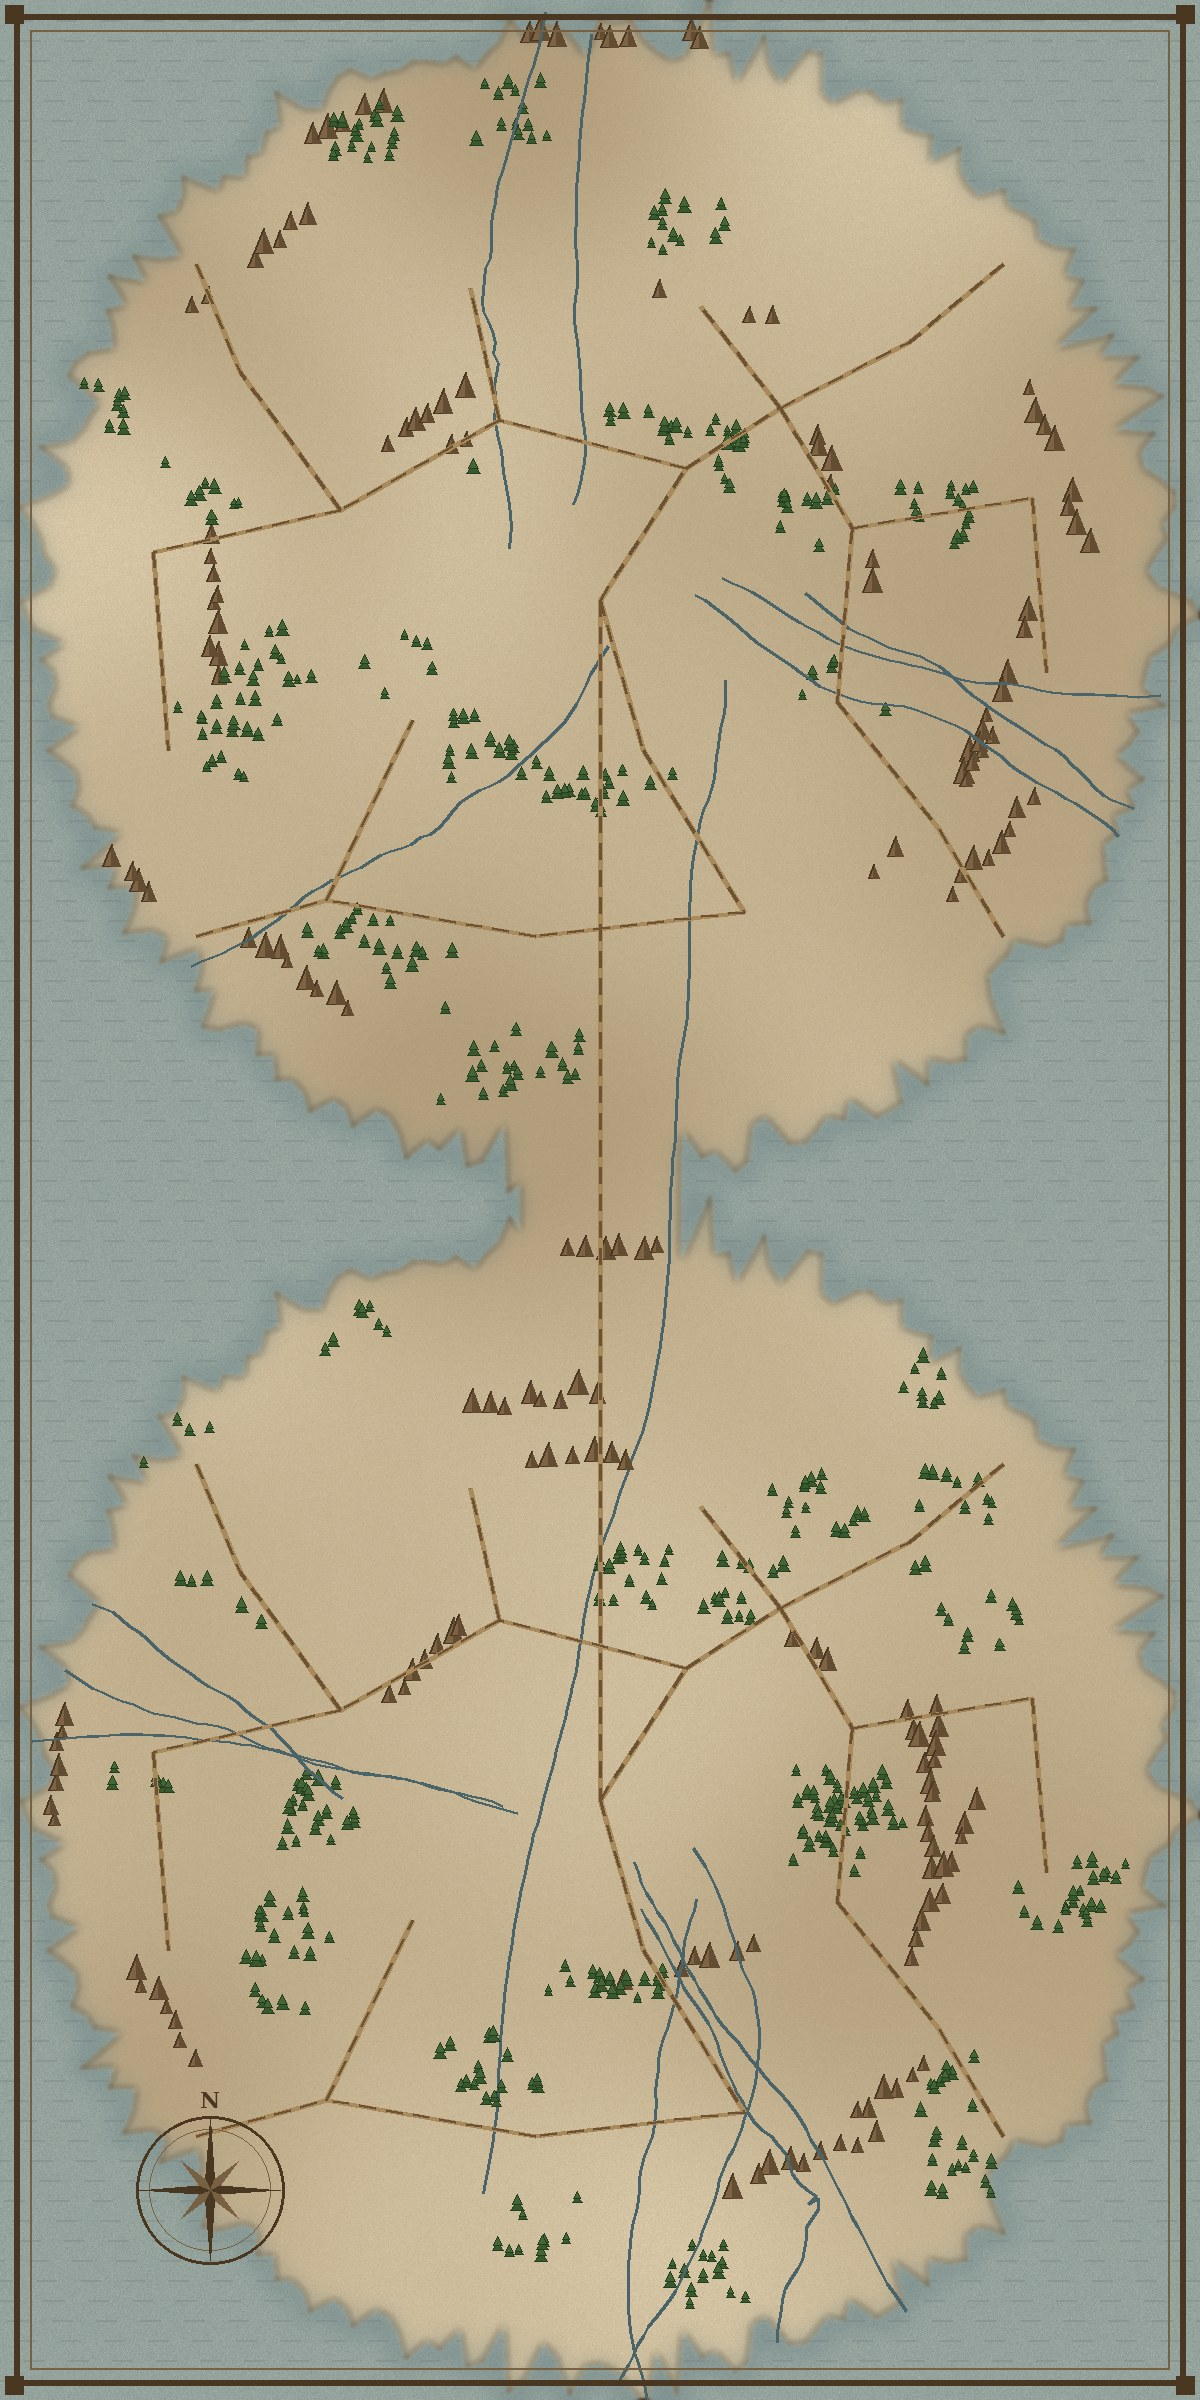
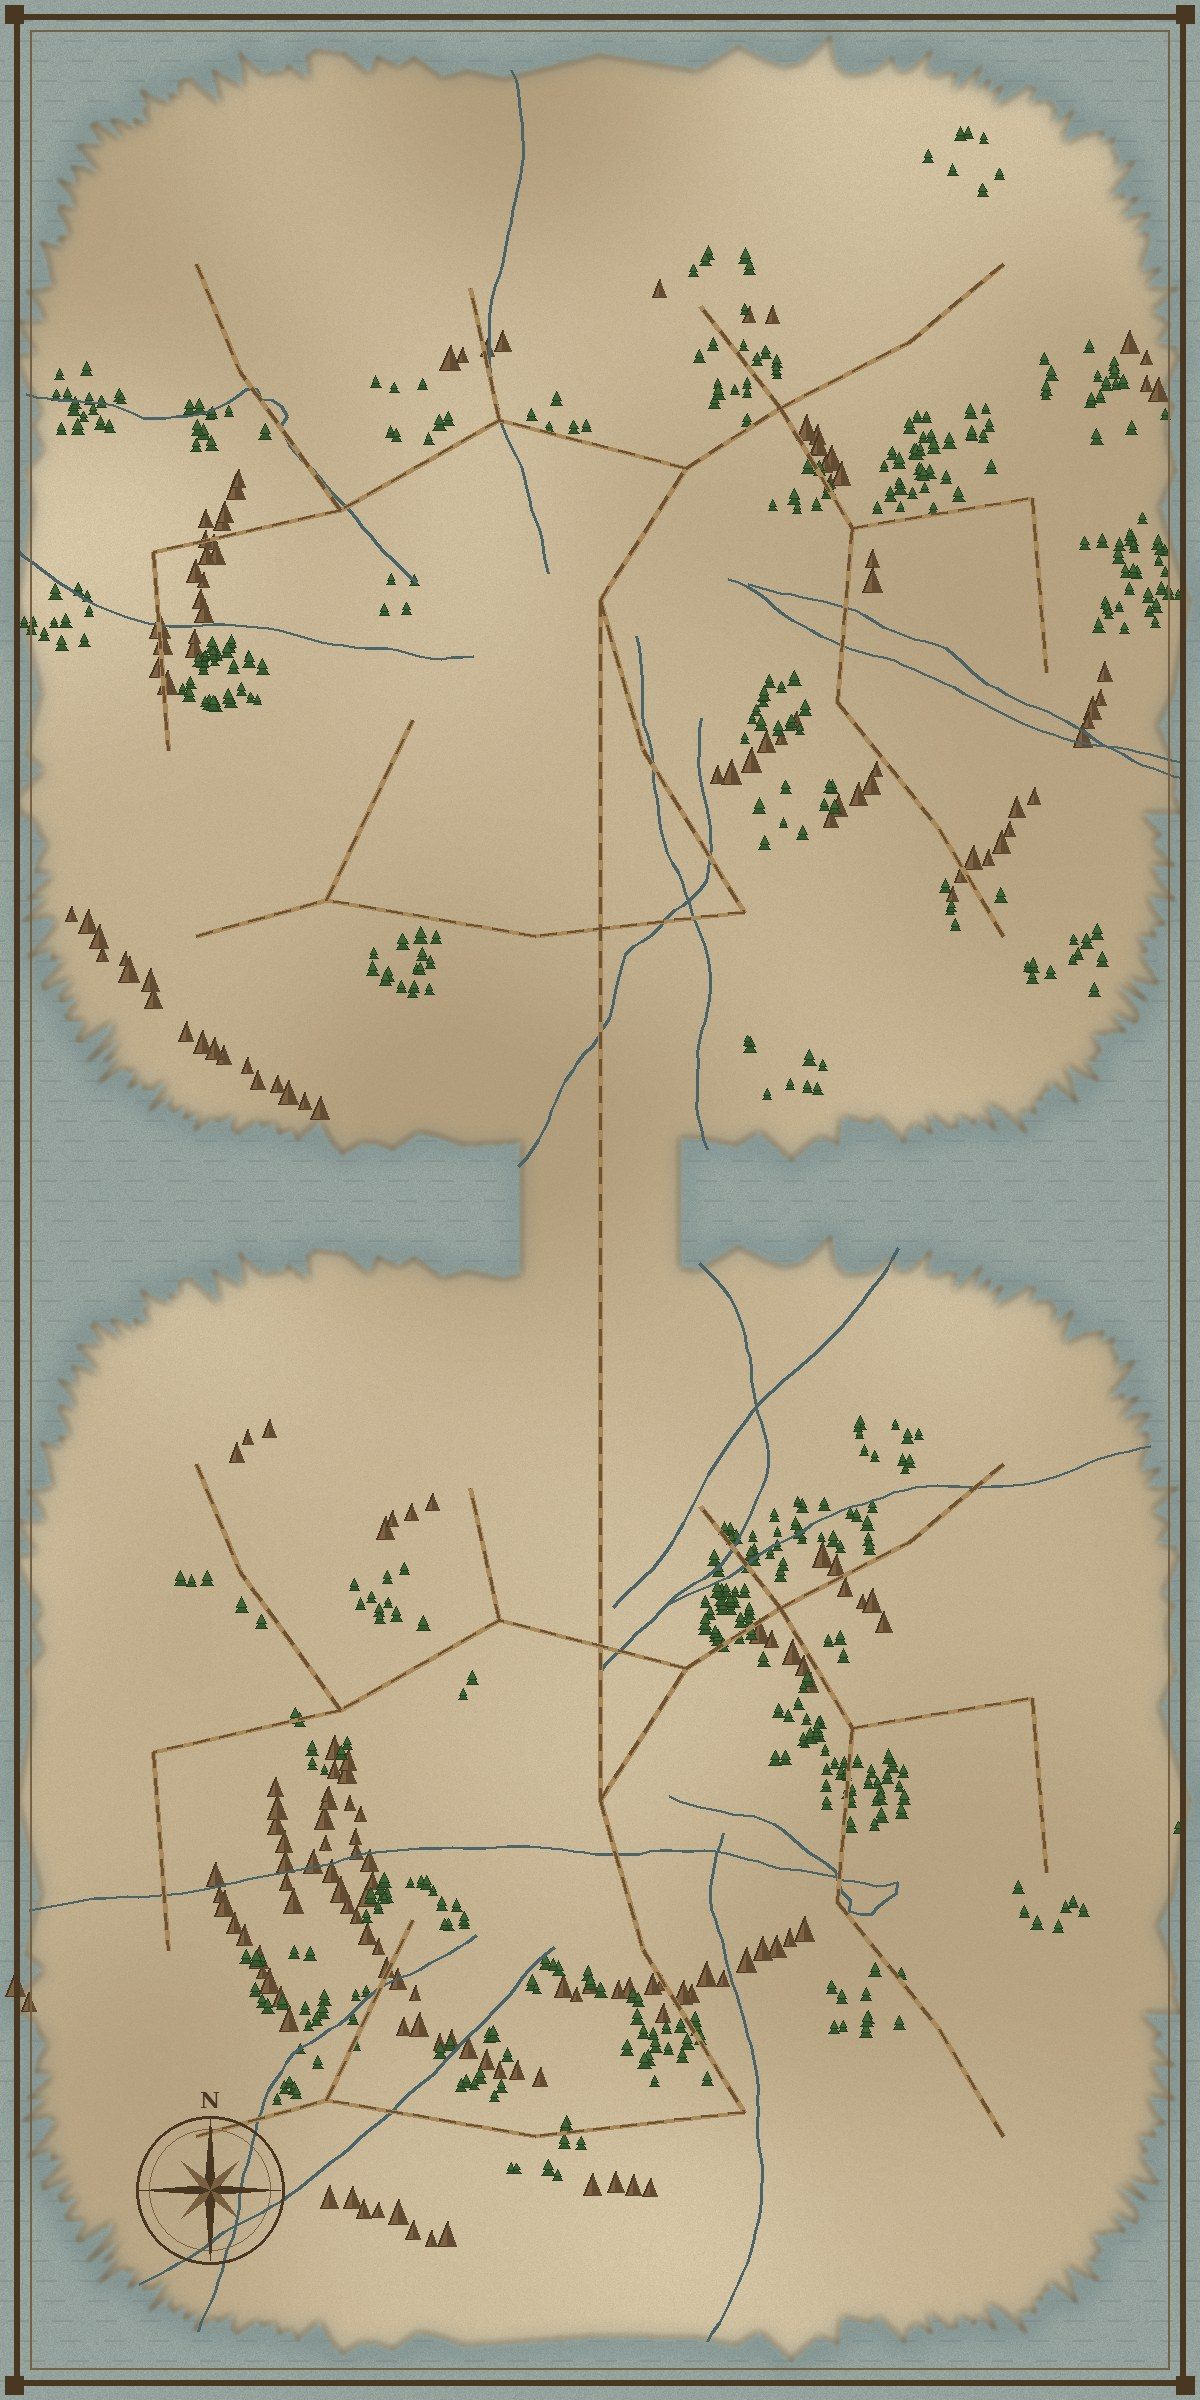
Mapa: continentes cuadrados (esquinas redondeadas) y mas grandes

diff --git a/wow-app.js b/wow-app.js
@@ -624,7 +624,7 @@ const Game = {
     });
     $("#tabMap").innerHTML = `
       <div class="mapWrap"><div class="mapInner" id="m2root">
-        <img class="mapImg" src="img/mapa.jpg?v=20261018k" alt="Mapa de Azeroth">
+        <img class="mapImg" src="img/mapa.jpg?v=20261018l" alt="Mapa de Azeroth">
         ${throneHtml}
         ${aldeaHtml}
         ${pins}

diff --git a/index.html b/index.html
@@ -457,5 +457,5 @@ table.rank tr.me td{background:rgba(240,192,96,.08); color:var(--gold)}
   <div class="modalBox" id="modalBox"></div>
 </div>
 
-    <script src="wow-app.js?v=20261018k"></script>
+    <script src="wow-app.js?v=20261018l"></script>
 </body></html>
